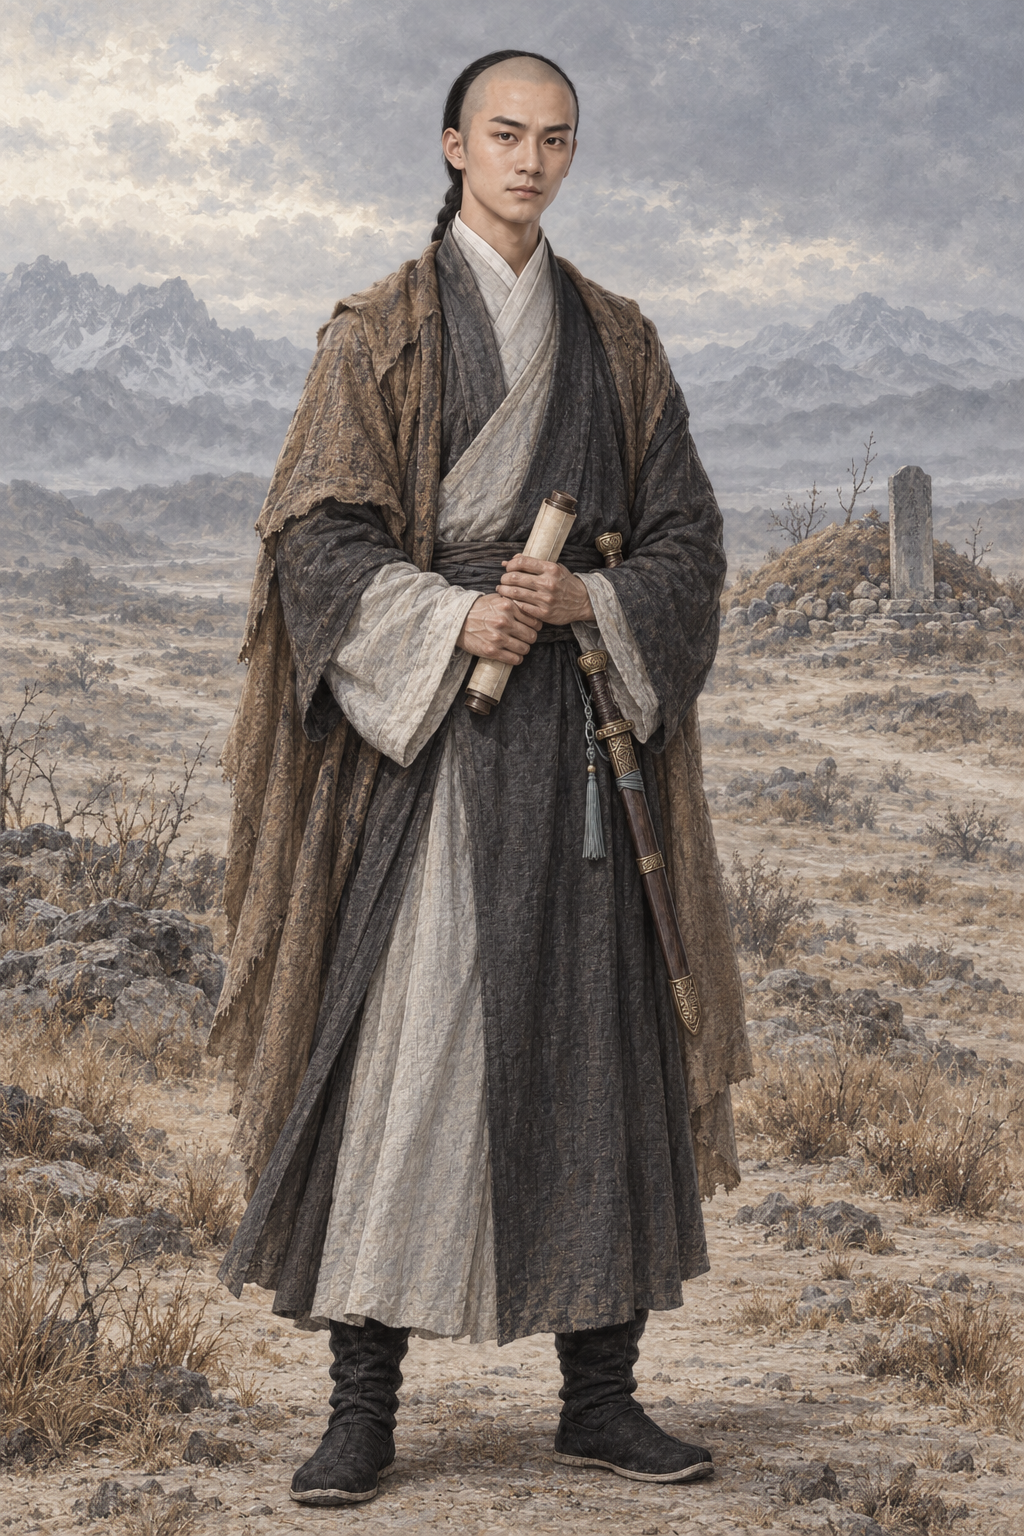
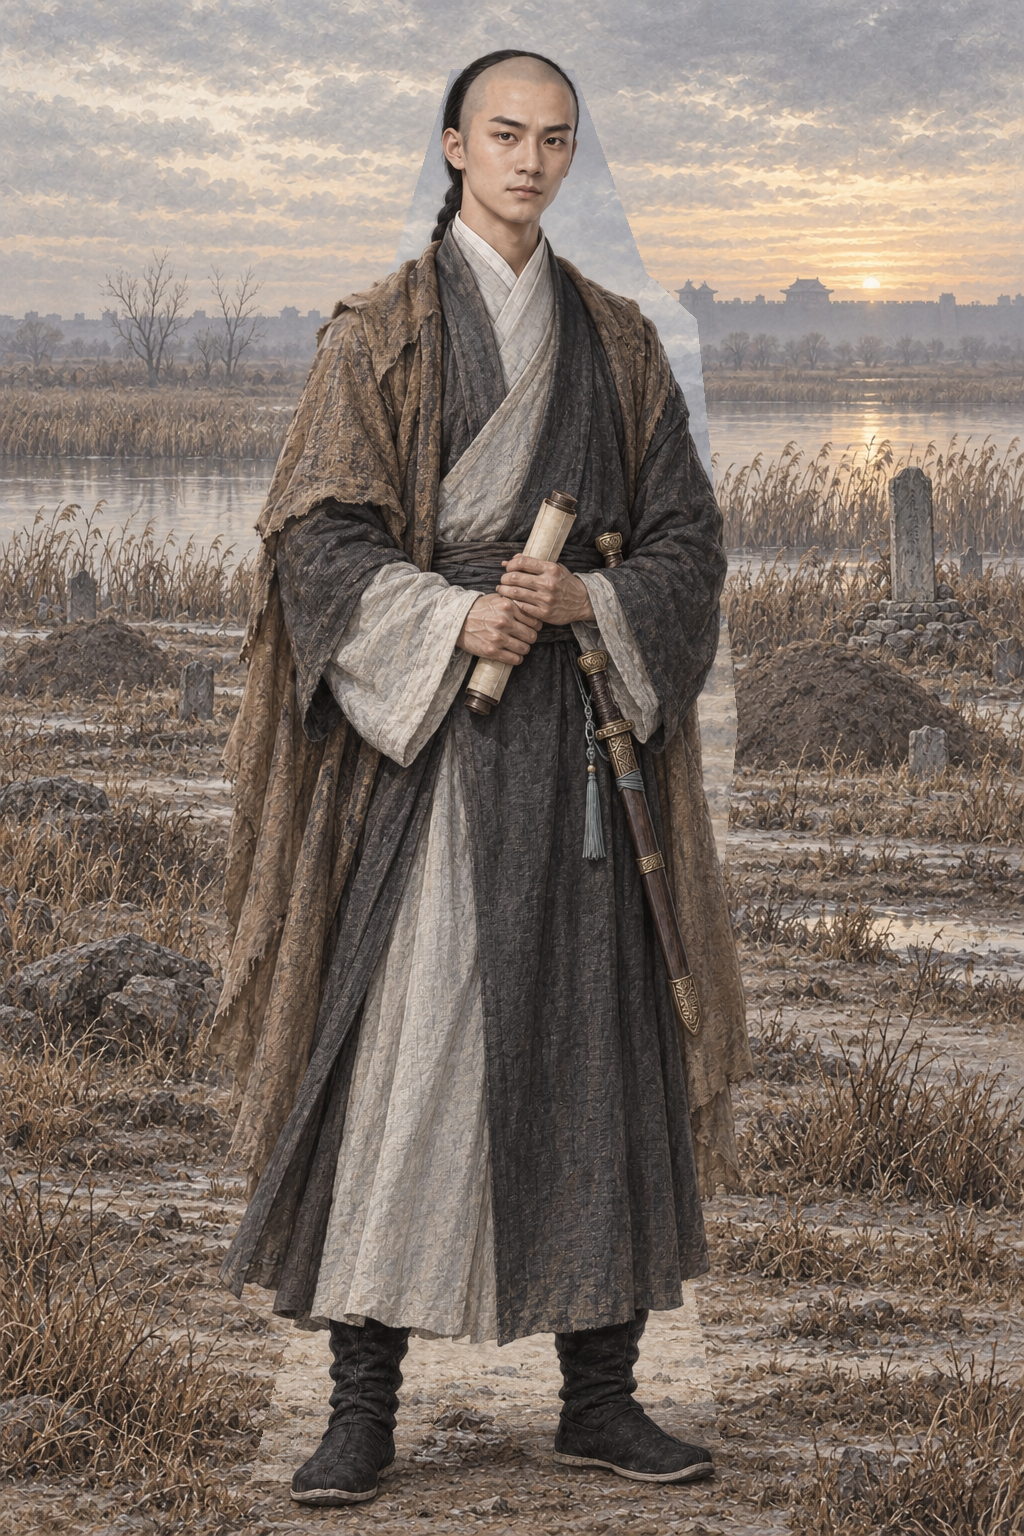
assets: AR-82 原著核对返修 陈家洛
修正原著明确的服饰、器物或剧情状态；编辑范围外像素保持，保留既定面容；同步原著摘句及当前返修要求。

Executed-By: Codex gpt-6.1-sol（AR-82）

diff --git a/assets/default/prompts/characters/ch12-shujian/npc_chenjialuo__scene_fragrant_tomb_westward.md b/assets/default/prompts/characters/ch12-shujian/npc_chenjialuo__scene_fragrant_tomb_westward.md
@@ -51,3 +51,15 @@ size: 1024x1536
 
 - 参考分工见实际提示词；配色、姿势、取景及成年化均为（原创扩展）。
 - 本轮结果已逐图目检并入库为 candidate；实际作业与参考哈希见 manifest。
+
+
+## 原著依据
+
+- AR-82 返修依据：《书剑恩仇录》第二十回“忍见红颜堕火窟，空余碧血葬香魂”：“出得城来”“水边一片芦苇”“东方大白，才连骑向西而去”。；来源：https://github.com/OliverCWY/JY/blob/master/Markdown/%E4%B8%89%E8%81%94%E7%89%88/%E4%B9%A6%E5%89%91%E6%81%A9%E4%BB%87%E5%BD%95/%E7%AC%AC20%E7%AB%A0%E3%80%80%E5%BF%8D%E8%A7%81%E7%BA%A2%E9%A2%9C%E5%A0%95%E7%81%AB%E7%AA%9F%EF%BC%8C%E7%A9%BA%E4%BD%99%E7%A2%A7%E8%A1%80%E8%91%AC%E9%A6%99%E9%AD%82.md；执行：若保留香冢在同一画面，改为北京城外水边、芦苇与新坟，黎明告别后西行；若选西域途中取样，移除身后的香冢，注明已离京西行而非立冢现场。
+
+
+## AR-82 当前返修约束
+
+陈家洛本图是北京城外黎明立香冢告别之后的西行取样。人物原姿态、脸、头部位置大小、双手与所有衣物兵器完全不变。仅将身后荒凉西域高山戈壁的香冢场景改为北京城外水边乱坟：近处新坟、身后原位置小石碑保留但无可读碑字，芦苇在水边成片，远处隐约城墙平原，东方刚大白的黎明天色。不可把香冢留在西域高山之中。
+
+以本节及原著依据为当前要求，历史提示词与本节冲突时按本节执行；保留作者选定脸、原画质感与对应剧情阶段。
